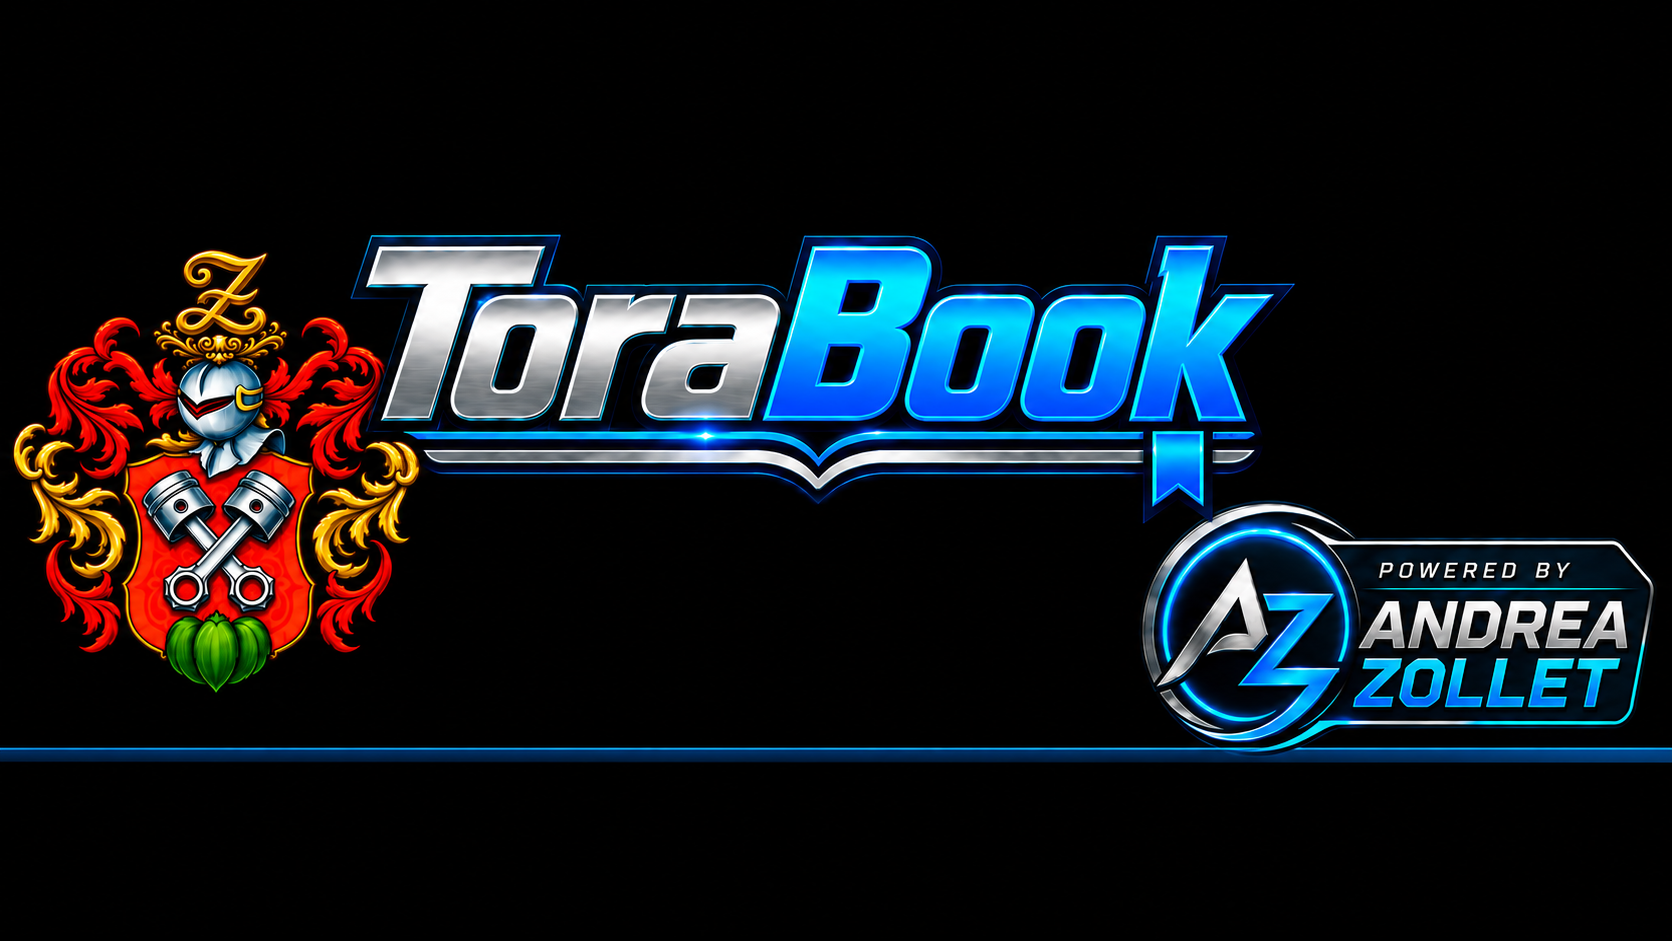
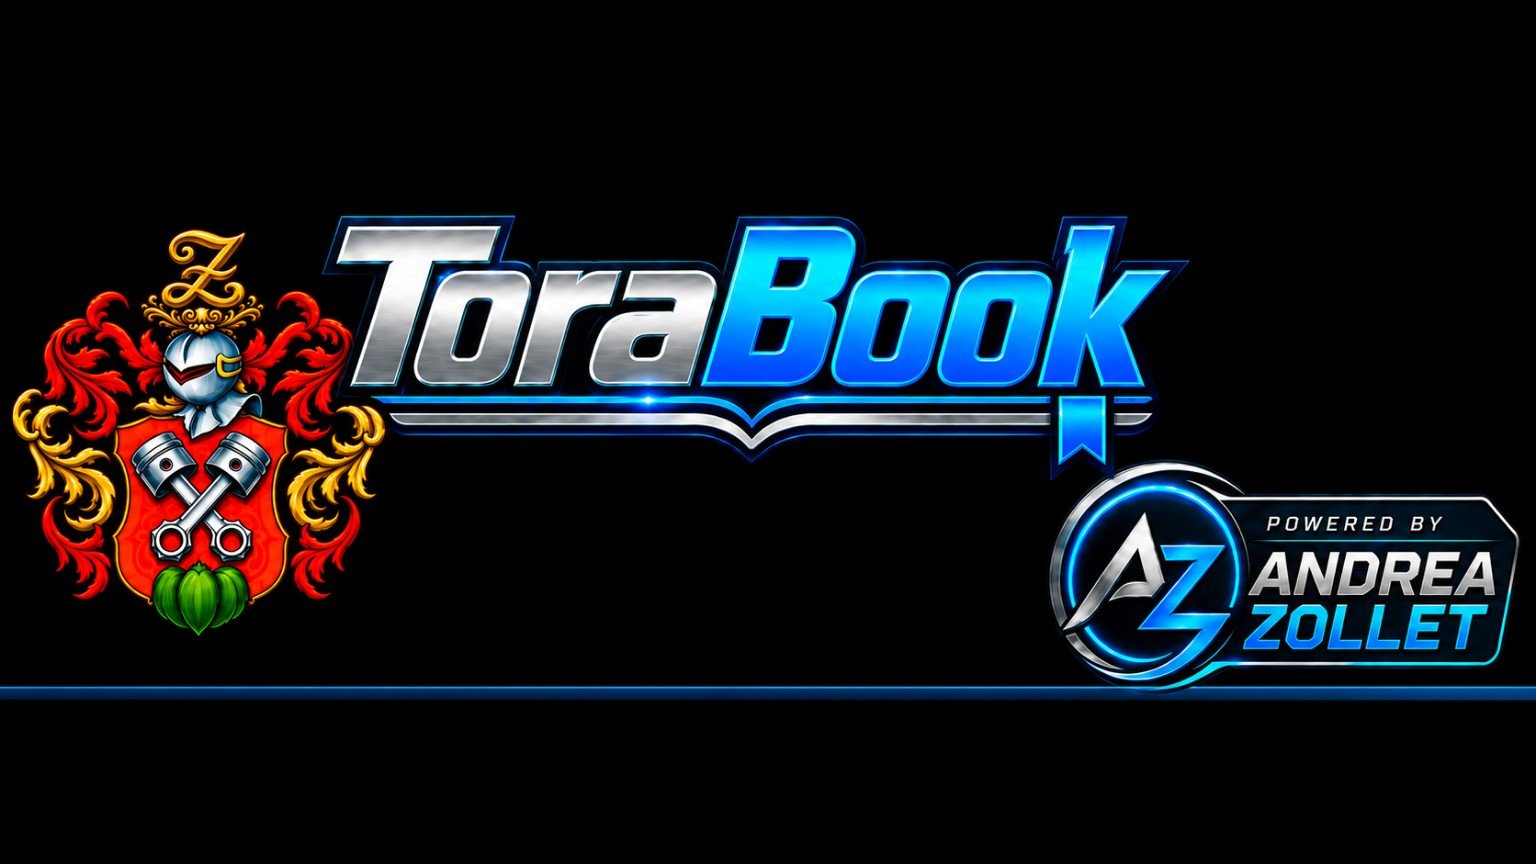
Add files via upload

diff --git a/index.html b/index.html
@@ -13,8 +13,8 @@
 <style>
 body { margin:0; font-family:Arial; background:#121212; color:#fff; }
 .overlay { background:rgba(0,0,0,0.75); min-height:100vh; padding:20px; }
-.header-bar { display:flex; align-items:center; justify-content:center; margin-bottom:14px; }
-.header-brand { display:block; width:min(100%, 760px); height:auto; }
+.header-bar { display:block; width:100%; max-width:100%; margin:0 auto 14px; overflow:hidden; box-sizing:border-box; }
+.header-brand { display:block; width:100%; max-width:100%; height:auto; margin:0 auto; }
 .tabs { display:flex; gap:10px; margin-bottom:20px; flex-wrap:wrap; }
 .tab-btn { padding:10px 15px; background:#1e1e1e; border:none; color:#fff; border-radius:6px; cursor:pointer; }
 .tab-btn.active { background:#2196f3; }
@@ -57,8 +57,8 @@ canvas { background:#1e1e1e; border-radius:6px; margin-top:15px; }
 html{background:var(--bg)}
 body{background:radial-gradient(circle at top,#0a1c2e 0,#050b13 38%,#02060b 100%);color:var(--text);font-family:Inter,Arial,sans-serif}
 .overlay{max-width:1280px;margin:auto;min-height:100vh;padding:18px;background:transparent}
-.header-bar{background:linear-gradient(180deg,rgba(10,31,50,.95),rgba(5,18,30,.95));border:1px solid var(--line);border-radius:18px;padding:10px 14px;margin-bottom:14px;box-shadow:0 12px 30px rgba(0,0,0,.25);text-align:center}
-.header-brand{display:block;width:min(100%, 760px);height:auto;margin:0 auto;filter:drop-shadow(0 0 12px rgba(11,121,255,.22))}
+.header-bar{background:linear-gradient(180deg,rgba(10,31,50,.95),rgba(5,18,30,.95));border:1px solid var(--line);border-radius:18px;padding:0;margin:0 auto 14px;box-shadow:0 12px 30px rgba(0,0,0,.25);text-align:center;overflow:hidden;max-width:100%}
+.header-brand{display:block;width:100%;max-width:100%;height:auto;margin:0 auto;filter:none}
 .tabs{display:grid;grid-template-columns:repeat(3,minmax(120px,180px));justify-content:center;gap:10px;margin:0 auto 16px;padding:0;width:100%;max-width:620px}
 .tab-btn{min-height:82px;padding:10px 8px!important;background:linear-gradient(180deg,#0b1724,#07111b)!important;border:1px solid #31516d!important;color:#fff!important;border-radius:15px!important;display:flex;flex-direction:column;align-items:center;justify-content:center;gap:7px;font-weight:700;font-size:15px;transition:.18s ease;box-shadow:inset 0 1px 0 rgba(255,255,255,.03)}
 .tab-btn .tab-icon{font-size:28px;line-height:1;filter:drop-shadow(0 0 8px currentColor)}
@@ -104,8 +104,8 @@ canvas{background:linear-gradient(180deg,#0b1924,#07121c)!important;border:1px s
 #search-results .empty-result{padding:24px;text-align:center;color:#9fb0c2;border:1px dashed #34556e;border-radius:12px;background:rgba(7,23,35,.55)}
 .money-positive{font-weight:800;color:#67e58c}
 .note-cell{white-space:normal;min-width:180px;max-width:340px}
-@media(max-width:820px){.overlay{padding:10px}.header-bar{padding:8px 10px}.header-brand{width:100%}.tabs{display:grid;grid-template-columns:repeat(3,minmax(100px,1fr));justify-content:center;gap:8px;width:100%;max-width:600px;margin:0 auto 16px;padding:0}.tab-btn{min-height:76px;font-size:12px}.tab-btn .tab-icon{font-size:24px}.tab-content{padding:13px;border-radius:15px}.tab-content h2{font-size:21px}.row{display:block}.col{min-width:0}#summary-output{grid-template-columns:repeat(2,minmax(0,1fr));gap:9px}.summary-card{min-height:116px;padding:11px;gap:10px}.summary-icon{width:48px;height:48px;flex-basis:48px;font-size:23px}.summary-value{font-size:23px}.summary-label{font-size:12.5px}.summary-unit{font-size:12px}table{min-width:700px}th,td{font-size:12px;padding:9px 8px!important}.app-footer{font-size:13px;gap:8px}.signature{font-size:21px}.signature b{font-size:17px}}
-@media(max-width:430px){.tabs{grid-template-columns:repeat(3,minmax(92px,1fr));gap:8px;max-width:100%}#summary-output{grid-template-columns:1fr 1fr}.summary-card{display:block}.summary-icon{margin-bottom:8px}.summary-value{font-size:22px}.tab-btn{min-height:72px;padding:8px 6px!important}.header-bar{padding:6px 8px}}
+@media(max-width:820px){.overlay{padding:10px;overflow-x:hidden}.header-bar{padding:0}.header-brand{width:100%;max-width:100%}.tabs{display:grid;grid-template-columns:repeat(3,minmax(100px,1fr));justify-content:center;gap:8px;width:100%;max-width:600px;margin:0 auto 16px;padding:0}.tab-btn{min-height:76px;font-size:12px}.tab-btn .tab-icon{font-size:24px}.tab-content{padding:13px;border-radius:15px}.tab-content h2{font-size:21px}.row{display:block}.col{min-width:0}#summary-output{grid-template-columns:repeat(2,minmax(0,1fr));gap:9px}.summary-card{min-height:116px;padding:11px;gap:10px}.summary-icon{width:48px;height:48px;flex-basis:48px;font-size:23px}.summary-value{font-size:23px}.summary-label{font-size:12.5px}.summary-unit{font-size:12px}table{min-width:700px}th,td{font-size:12px;padding:9px 8px!important}.app-footer{font-size:13px;gap:8px}.signature{font-size:21px}.signature b{font-size:17px}}
+@media(max-width:430px){.tabs{grid-template-columns:repeat(3,minmax(92px,1fr));gap:8px;max-width:100%}#summary-output{grid-template-columns:1fr 1fr}.summary-card{display:block}.summary-icon{margin-bottom:8px}.summary-value{font-size:22px}.tab-btn{min-height:72px;padding:8px 6px!important}.header-bar{padding:0}}
 
 /* === V2: Dashboard, filtri, statistiche e report === */
 .dashboard-grid,.stats-grid{display:grid;grid-template-columns:repeat(3,minmax(0,1fr));gap:12px;margin:12px 0 18px}
